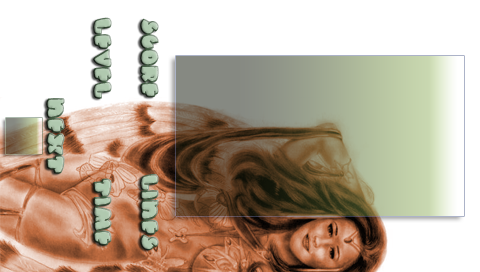
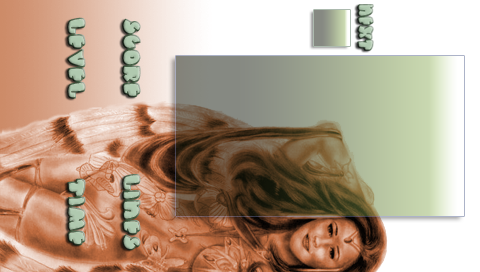
New game type added, where the screen is rotated 90 degrees and with new graphics. readme.txt updated with the new game.

Changed region(s): [[0.0, 0.0, 0.375, 0.9412], [0.625, 0.0, 0.7812, 0.2059]]

diff --git a/trunk/PSP/Plugins/GAME_PSPTris/PSPTris_game_original.cpp b/trunk/PSP/Plugins/GAME_PSPTris/PSPTris_game_original.cpp
@@ -36,6 +36,7 @@
 #include "danzeff.h"
 
 static jsaTextureCache *tcache;
+static char *mCwd = NULL;
 
 extern int	playfield[PLAYFIELD_MAX_X_SIZE+2*BRICK_SIZE][PLAYFIELD_MAX_Y_SIZE+BRICK_SIZE][LAYER_COUNT];
 
@@ -155,13 +156,19 @@ static SAMPLE		*remove_lines_sample = NULL;
 #define	max(a,b)	((a > b) ? a : b)
 #define	min(a,b)	((a < b) ? a : b)
 
-static const int	PLAYFIELD_X_SIZE	= 14;
-static const int	PLAYFIELD_Y_SIZE 	= 16;
+static const int	PLAYFIELD_X_SIZE	= 10;
+static const int	PLAYFIELD_Y_SIZE 	= 18;
+
+#define				MIRROR_X(x)			(456 - (x))
+#define 			NEXT_BRICK_X		(12)
+#define 			NEXT_BRICK_Y		(116)
+#define				PLAYFIELD_X			(56)
+#define				PLAYFIELD_Y			(8)
 
 static void PSPTris_render_playfield(u32 brightness)
 {
-	float cx = 128;
-	float cy = 8;
+	float cx = PLAYFIELD_X;
+	float cy = PLAYFIELD_Y;
 
 	for (int y = 0 ; y < PLAYFIELD_Y_SIZE ; y++)
 		{
@@ -169,11 +176,11 @@ static void PSPTris_render_playfield(u32 brightness)
 			{
 			if (playfield[x][y][LAYER_BRICKS] != 0)
 				{
-				PSPTris_render_brick(cx, cy, 16, 16, playfield[x][y][LAYER_BRICKS], brightness);
+				PSPTris_render_brick(MIRROR_X(cy), cx, 16, 16, playfield[x][y][LAYER_BRICKS], brightness);
 				}
 			cx += 16;
 			}
-		cx = 128;
+		cx = PLAYFIELD_X;
 		cy += 16;
 		}
 }
@@ -253,6 +260,8 @@ void PSPTris_game_init_original(char *cwd)
 {
 int		ret_value;
 char	filename[MAXPATHLEN];
+
+	mCwd = cwd;
 
 	sprintf(filename, "%s/Samples/brick_drop.wav", cwd);
 	ret_value = PSPTris_audio_load_sample(filename, &brick_drop_sample);
@@ -428,8 +437,8 @@ u32		linecount = 0;
 static void PSPTris_render_next_brick()
 {
 	coord	*shape;
-	float 	cx = 380;
-	float 	cy = 165;
+	float 	cx = NEXT_BRICK_X;
+	float 	cy = NEXT_BRICK_Y;
 	int		x;
 	int		y;
 
@@ -439,32 +448,34 @@ static void PSPTris_render_next_brick()
 	/* hack for the blue brick :-) */
 	if (next_brick.texture_id == TEX_BRICK_BLUE)
 		{
-		cx = 380 + ((32 - x * 8) / 2) - 8;
-		cy = 165 + ((32 - y * 8) / 2);
+		cx = NEXT_BRICK_X + ((32 - x * 8) / 2) - 8;
+		cy = NEXT_BRICK_Y + ((32 - y * 8) / 2);
 		}
 	else
 		{
-		cx = 380 + ((32 - x * 8) / 2);
-		cy = 165 + ((32 - y * 8) / 2);
+		cx = NEXT_BRICK_X + ((32 - x * 8) / 2);
+		cy = NEXT_BRICK_Y + ((32 - y * 8) / 2);
 		}
 
 	for (int i = 0 ; i < BRICK_SIZE ; i++)
 		{
-		PSPTris_render_brick(cx + shape[i].x * 8, cy + shape[i].y * 8, 8, 16, next_brick.texture_id, 0xFFFFFFFF);
+		PSPTris_render_brick(MIRROR_X(cy + shape[i].y * 8), cx + shape[i].x * 8, 8, 16, next_brick.texture_id, 0xFFFFFFFF);
 		}
 }
+
+
 
 static void PSPTris_render_current_brick()
 {
 	coord	*shape;
-	float cx = 128 + 16 * current_brick.current_pos.x;
-	float cy = 8 + 16 * current_brick.current_pos.y;
+	float cx = PLAYFIELD_X + 16 * current_brick.current_pos.x;
+	float cy = PLAYFIELD_Y + 16 * current_brick.current_pos.y;
 
 	shape = PSPTris_game_get_shape(current_brick);
 
 	for (int i = 0 ; i < BRICK_SIZE ; i++)
 		{
-		PSPTris_render_brick(cx + shape[i].x * 16, cy + shape[i].y * 16, 16, 16, current_brick.texture_id, 0xFFFFFFFF);
+		PSPTris_render_brick(MIRROR_X(cy + shape[i].y * 16), cx + shape[i].x * 16, 16, 16, current_brick.texture_id, 0xFFFFFFFF);
 		}
 }
 
@@ -532,7 +543,7 @@ bool	exit_game = false;
 			}
 
 		/* Check for drop */
-		if ((key_state & PSP_CTRL_UP) && !drop)
+		if ((key_state & PSP_CTRL_RIGHT) && !drop)
 			{
 			drop = true;
 			PSPTris_game_update_score(POINT_DROP);
@@ -543,7 +554,7 @@ bool	exit_game = false;
 			/* Check for time-out -> Force brick down */
 			if (time_out == 0)
 				{
-				key_state |= PSP_CTRL_DOWN;
+				key_state |= PSP_CTRL_LEFT;
 				time_out = level_speed[level-1];
 				}
 			else
@@ -578,7 +589,7 @@ bool	exit_game = false;
 				}
 
 			/* Check for movement -> RIGHT */
-			if (key_state & PSP_CTRL_RIGHT)
+			if (key_state & PSP_CTRL_DOWN)
 				{
 				if (current_brick.current_pos.x < PLAYFIELD_X_SIZE)
 					{
@@ -591,7 +602,7 @@ bool	exit_game = false;
 					}
 				}
 			/* Check for movement -> LEFT */
-			if (key_state & PSP_CTRL_LEFT)
+			if (key_state & PSP_CTRL_UP)
 				{
 				if (current_brick.current_pos.x > -BRICK_SIZE)
 					{
@@ -611,12 +622,12 @@ bool	exit_game = false;
 			if (drop_counter == DROP_SPEED)
 				{
 				drop_counter = 0;
-				key_state = PSP_CTRL_DOWN;
+				key_state = PSP_CTRL_LEFT;
 				}
 			}
 
 		/* Check for movement -> DOWN */
-		if (key_state & PSP_CTRL_DOWN)
+		if (key_state & PSP_CTRL_LEFT)
 			{
 			if (current_brick.current_pos.y < PLAYFIELD_Y_SIZE)
 				{
@@ -640,6 +651,8 @@ bool	exit_game = false;
 					if (PSPTris_game_collision(current_brick))
 						{
 						game_over = true;
+						PSPTris_game_stop_music();
+						PSPTris_game_start_music(mCwd, "/Music/endgame.mod");
 						highscore_rank = PSPTris_highscore_check(score, GAMETYPE_ORIGINAL);
 						}
 					}
@@ -651,15 +664,11 @@ bool	exit_game = false;
 			}
 		PSPTris_render_playfield(0xFFFFFFFF);
 
-		PSPTris_render_text("SCORE", 	374,   2);
-		PSPTris_render_text(score_text, 	374,  22);
-		PSPTris_render_text("LEVEL", 	374,  42);
-		PSPTris_render_text(level_text,	398,  62);
-		PSPTris_render_text("LINES", 	374,  82);
-		PSPTris_render_text(line_text,	374, 102);
+		PSPTris_render_text_vertical(score_text, 100,  18);
+		PSPTris_render_text_vertical(level_text,  44,  42);
+		PSPTris_render_text_vertical(line_text,	 100, 172);
 		PSPTris_update_time();
-		PSPTris_render_text("TIME",  	382, 122);
-		PSPTris_render_text(time_text, 	374, 142);
+		PSPTris_render_text_vertical(time_text,   44, 172);
 
 		if (!game_over)
 			{
@@ -680,14 +689,10 @@ bool	exit_game = false;
 
 		PSPTris_render_playfield(brightness);
 
-		PSPTris_render_text("SCORE", 	374,   2);
-		PSPTris_render_text(score_text, 	374,  22);
-		PSPTris_render_text("LEVEL", 	374,  42);
-		PSPTris_render_text(level_text,	398,  62);
-		PSPTris_render_text("LINES", 	374,  82);
-		PSPTris_render_text(line_text,	374, 102);
-		PSPTris_render_text("TIME",  	382, 122);
-		PSPTris_render_text(time_text, 	374, 142);
+		PSPTris_render_text_vertical(score_text, 100,  18);
+		PSPTris_render_text_vertical(level_text,  44,  42);
+		PSPTris_render_text_vertical(line_text,	 100, 172);
+		PSPTris_render_text_vertical(time_text,   44, 172);
 
 		/* If we made it to the highscore rank, then get input */
 		if (highscore_rank > 0)
@@ -697,9 +702,10 @@ bool	exit_game = false;
 			static highscore_str	highscore;
 			SceCtrlData pad_data;
 
-			PSPTris_render_text("WELL DONE",			128 + 2 * 16 + 8,   22);
-			PSPTris_render_text("YOU MADE IT TO",	128 + 0 * 16 + 0,   42);
-			PSPTris_render_text("THE HIGHSCORE",		128 + 0 * 16 + 8,   62);
+			PSPTris_render_text_vertical("WELL DONE",		420, 56 + 0 * 16 + 8);
+			PSPTris_render_text_vertical("YOU MADE",		380, 56 + 1 * 16 + 0);
+			PSPTris_render_text_vertical("IT TO THE",		360, 56 + 0 * 16 + 8);
+			PSPTris_render_text_vertical("HIGHSCORE",		340, 56 + 0 * 16 + 8);
 
 			if (first_time)
 				{
@@ -709,7 +715,7 @@ bool	exit_game = false;
 				first_time = false;
 				/* Initialize OSK */
 				danzeff_load();
-				danzeff_moveTo(165, 82);
+				danzeff_moveTo(128, 62);
 				}
 
 			if (!name_entered)
@@ -719,7 +725,7 @@ bool	exit_game = false;
 
 				sceCtrlReadBufferPositive(&pad_data, 1);
 				entered_char = danzeff_readInput(pad_data);
-				PSPTris_render_text(highscore.name, 128 + 5 * 16 + 8, 242);
+				PSPTris_render_text_vertical(highscore.name, 300, 56 + 3 * 16 + 8);
 				danzeff_render();
 
 				/* Get input from OSK and convert to uppercase */
@@ -758,11 +764,13 @@ bool	exit_game = false;
 		/* We didn't make it to the highscore rank */
 		else
 			{
-			PSPTris_render_text("SORRY",			128 + 4 * 16 + 8,   82);
-			PSPTris_render_text("YOU NEED MORE",	128 + 0 * 16 + 8,  122);
-			PSPTris_render_text("PRACTICE TO",	128 + 1 * 16 + 8,  142);
-			PSPTris_render_text("REACH THE",		128 + 2 * 16 + 8,  162);
-			PSPTris_render_text("HIGHSCORE",		128 + 2 * 16 + 8,  182);
+			PSPTris_render_text_vertical("SORRY",			360, 56 + 2 * 16 + 8);
+			PSPTris_render_text_vertical("YOU NEED",		320, 56 + 1 * 16 + 0);
+			PSPTris_render_text_vertical("MORE",			300, 56 + 3 * 16 + 0);
+			PSPTris_render_text_vertical("PRACTICE",		280, 56 + 1 * 16 + 0);
+			PSPTris_render_text_vertical("TO",				260, 56 + 4 * 16 + 0);
+			PSPTris_render_text_vertical("REACH THE",		240, 56 + 0 * 16 + 8);
+			PSPTris_render_text_vertical("HIGHSCORE",		220, 56 + 0 * 16 + 8);
 
 			/* Check for exit */
 			if (key_state & PSP_CTRL_CROSS)

diff --git a/trunk/PSP/Plugins/GAME_PSPTris/PSPTris_game.cpp b/trunk/PSP/Plugins/GAME_PSPTris/PSPTris_game.cpp
@@ -258,6 +258,54 @@ void PSPTris_render_text(char *text, int x, int y)
 	sceGuDisable(GU_TEXTURE_2D);
 }
 
+void PSPTris_render_text_vertical(char *text, int x, int y)
+{
+	int	length;
+	int	u, v;
+
+	length = strlen(text);
+
+	sceGuEnable(GU_TEXTURE_2D);
+	sceGuAlphaFunc( GU_GREATER, 0, 0xff );
+	sceGuEnable( GU_ALPHA_TEST );
+	sceGuTexFunc(GU_TFX_BLEND,GU_TCC_RGBA);
+	sceGuTexEnvColor(0xFF000000);
+	sceGuBlendFunc( GU_ADD, GU_SRC_ALPHA, GU_ONE_MINUS_SRC_ALPHA, 0, 0 );
+	sceGuEnable( GU_BLEND );
+	(void)tcache->jsaTCacheSetTexture(TEX_FONT_02);
+	sceGuTexFunc(GU_TFX_MODULATE,GU_TCC_RGBA);
+
+	for (int i = 0 ; i < length ; i++)
+		{
+		PSPTris_get_texture_coords_vertical(text[i], &u, &v);
+
+		struct NCVertex* c_vertices = (struct NCVertex*)sceGuGetMemory(2 * sizeof(struct NCVertex));
+
+		c_vertices[0].u 		= u;
+		c_vertices[0].v 		= v;
+		c_vertices[0].x 		= x;
+		c_vertices[0].y 		= y;
+		c_vertices[0].z 		= 0;
+		c_vertices[0].color 	= 0xFFFFFFFF;
+
+		c_vertices[1].u 		= u + FONT_X_SIZE;
+		c_vertices[1].v 		= v + FONT_Y_SIZE;
+		c_vertices[1].x 		= x + FONT_X_SIZE;
+		c_vertices[1].y 		= y + FONT_Y_SIZE;
+		c_vertices[1].z 		= 0;
+		c_vertices[1].color 	= 0xFFFFFFFF;
+
+		sceGuDrawArray(GU_SPRITES,GU_TEXTURE_32BITF|GU_COLOR_8888|GU_VERTEX_32BITF|GU_TRANSFORM_2D,2,0,c_vertices);
+
+/*		x += FONT_X_SIZE;*/
+		y += FONT_X_SIZE;
+		}
+
+	sceGuDisable( GU_BLEND );
+	sceGuDisable( GU_ALPHA_TEST );
+	sceGuDisable(GU_TEXTURE_2D);
+}
+
 void PSPTris_render_brick(float x, float y, float size, float tex_size, int texture_id, u32 brightness)
 {
 	struct NCVertex* c_vertices = (struct NCVertex*)sceGuGetMemory(2 * sizeof(struct NCVertex));

diff --git a/trunk/PSP/Plugins/GAME_PSPTris/PSPTris_menu.cpp b/trunk/PSP/Plugins/GAME_PSPTris/PSPTris_menu.cpp
@@ -175,6 +175,7 @@ static jsaTextureFile __attribute__((aligned(16))) texture_list[] =
 	{TEX_BALL_YELLOW,	GU_PSM_8888, 32,  32, true, FT_PNG, "ball_yellow.png"},
 	{TEX_BALL_FRAME,	GU_PSM_8888, 32,  32, true, FT_PNG, "ball_frame.png"},
 	{TEX_BALL_SELECT,	GU_PSM_8888, 32,  32, true, FT_PNG, "ball_select.png"},
+	{TEX_FONT_02,		GU_PSM_8888, 64, 256, true, FT_PNG, "menufont_02.png"},
 	};
 
 #define	TEXTURE_COUNT		(sizeof(texture_list) / sizeof(jsaTextureFile))
@@ -246,6 +247,33 @@ int		char_number = 0;
 		{
 		*u = (char_number % FONT_X_SIZE) * FONT_X_SIZE;
 		*v = (char_number / FONT_X_COUNT) * FONT_Y_SIZE;
+		}
+}
+
+void PSPTris_get_texture_coords_vertical(char letter, int *u, int *v)
+{
+bool	found = false;
+int		char_number = 0;
+
+	for (unsigned int i = 0 ; i < FONT_COUNT; i++)
+		{
+		if (font_table[i] == letter)
+			{
+			found = true;
+			break;
+			}
+		char_number++;
+		}
+
+	if (found == false)
+		{
+		/* call this function again to get the coords for a space */
+		PSPTris_get_texture_coords(' ', u, v);
+		}
+	else
+		{
+		*u = ((FONT_X_COUNT_V - 1) * FONT_Y_SIZE) - ((char_number / FONT_Y_COUNT_V) * FONT_Y_SIZE);
+		*v = (char_number % FONT_Y_COUNT_V) * FONT_X_SIZE;
 		}
 }
 

diff --git a/trunk/PSP/Plugins/GAME_PSPTris/PSPTris_menu.h b/trunk/PSP/Plugins/GAME_PSPTris/PSPTris_menu.h
@@ -38,11 +38,14 @@ enum TEX_NAMES
 	TEX_BALL_YELLOW,
 	TEX_BALL_FRAME,
 	TEX_BALL_SELECT,
+	TEX_FONT_02,
 	} ;
 
 #define FONT_X_SIZE		(16)
 #define FONT_Y_SIZE		(16)
 #define FONT_X_COUNT	(256/FONT_X_SIZE)
+#define FONT_X_COUNT_V	(64/FONT_X_SIZE)
+#define FONT_Y_COUNT_V	(256/FONT_Y_SIZE)
 
 /* Prototypes */
 void PSPTris_menu_init(char *cwd);
@@ -50,5 +53,6 @@ void PSPTris_menu_destroy(void);
 bool PSPTris_menu(u32 key_state, u32 *key_delay);
 
 void PSPTris_get_texture_coords(char letter, int *u, int *v);
+void PSPTris_get_texture_coords_vertical(char letter, int *u, int *v);
 
 #endif /* PSPTRIS_MENU_H_ */

diff --git a/trunk/PSP/Plugins/GAME_PSPTris/PSPTris_game.h b/trunk/PSP/Plugins/GAME_PSPTris/PSPTris_game.h
@@ -86,6 +86,7 @@ int PSPTris_blockrand(void);
 void PSPTris_game_add_moving_brick(int x, int y, int texture_id, float size);
 void PSPTris_remove_rows(int columns, int rows);
 void PSPTris_render_text(char *text, int x, int y);
+void PSPTris_render_text_vertical(char *text, int x, int y);
 void PSPTris_render_brick(float x, float y, float size, float tex_size, int texture_id, u32 brightness);
 void PSPTris_game_render_moving_brick();
 

diff --git a/trunk/PSP/Plugins/GAME_PSPTris/PSPTris.h b/trunk/PSP/Plugins/GAME_PSPTris/PSPTris.h
@@ -20,7 +20,7 @@
 #ifndef _PSPTRIS_H_
 #define _PSPTRIS_H_
 
-#define APP_NAME		"PSPTRIS VER. 0.7"
+#define APP_NAME		"PSPTRIS VER. 0.9a"
 
 	struct NCVertex
 	{
